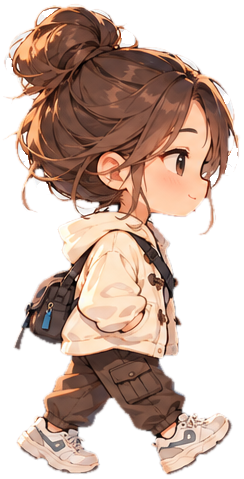
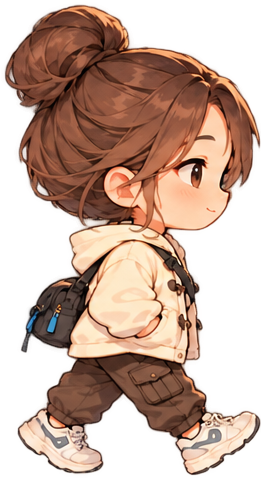
투명 배경 그림으로 교체: 여울 SD 16장, 여울 일러스트 다섯 장, 세라 표정 여섯 장
- 여울 SD 기본 8장과 선 낚시 포즈 6장을 새 투명 시트로 바꿨다. 낚시 포즈는 빈 주먹이라
  주먹 자리(grip)와 대 방향을 재서 poses.json에 넣고, 모든 포즈에 가진 대 밑동과 릴을 쥐여 준다
- 일러스트: yeoul-eat, yeoul-serve, yeoul-hands 교체. 새 yeoul-salty-tear(1장 끝 마지막 대사),
  새 yeoul-rod-broken(프롤로그 창고 장면, 표정 rodBroken)
- 세라 표정 여섯 장 교체
- ART_PROMPTS.md에 투명 배경 프롬프트 SD 7 기록

Claude-Session: https://claude.ai/code/session_01Q4t6Q7pbCP7YWATBfPpGQ7

diff --git a/docs/ART_PROMPTS.md b/docs/ART_PROMPTS.md
@@ -41,6 +41,7 @@
 ### 받은 SD 시트
 - 2026-10-27: **차세라 표정 시트**(대화 4)와 **컷 9 고등어 찌·컷 10 차세라 첫 만남**. 옷은 파랑 대신 빨강·흰 바람막이에 검은 탱크톱, 빨간 고글로 나와 그대로 쓴다(앞으로 차세라 그림은 이 디자인). 시트는 칸 사이가 고르지 않아 칸을 직접 잘라 `sd_sheet.py`(1×1)와 `clean_halo.py --fringe`로 `portraits/sera*.png`에. 컷은 `godot/art/cuts/`.
 - 2026-10-27: **뒤에서 본 릴 열 개 다시**(두 번째 시트: 릴 다리 위, 스풀 너머, 핸들 왼쪽). `godot/art/gear/reel-back-N.png`, 다리 꼭대기 가로 위치는 `data/gearlook.json reelFoot`. 낚시 화면에서 손 위 대 아래에 매단다. 앞 시트(스풀 앞면이 보이던 것)는 버렸다.
+- 2026-10-29: **투명 배경으로 전부 다시** (SD 7). 이미지 도구가 진짜 투명 PNG를 준다(채팅 미리보기엔 투명한 곳 밑 색이 비쳐 배경처럼 보이니 파일로 확인한다). 흰 배경을 지울 필요가 없어 머리카락 사이 흰 조각이 사라졌다. 여울 SD 기본 8장, 낚시 8장(빈 주먹, 대와 릴은 게임이 쥐여 준다), 여울 일러스트 다섯 장(yeoul-eat, yeoul-serve, yeoul-hands, 새 yeoul-salty-tear, 새 yeoul-rod-broken), 세라 표정 여섯 장을 바꿨다. 시트는 칸 경계 둘레 빈 줄에서 자르고, 낚시 포즈의 주먹 자리(grip)와 앉는 높이(seat)는 손으로 재서 `poses.json`에 넣었다. 캠핑 의자에 앉은 일러스트는 쓸 곳을 정하지 않아 보류.
 - 2026-10-27: **여울 낚시 포즈 다시**(SD 2-2, 뒷모습 중심 2×4). `sd_sheet.py`로 자르고 `godot/art/yeoul/fish-*.png`, `poses.json`에 넣었다. 테두리가 또렷해 `clean_halo.py`는 쓰지 않았다(쓰면 가는 낚싯대가 끊긴다). 감기는 손 위 대를 지웠다. 놀람(bite) 옆 주황 표시는 잘릴 때 빠진다.
 - 2026-10-22: **손님 SD 시트 두 장**(6명 × 서기·걷기·기쁨·실망). `scripts/sd_cells.py`로 잘라 `godot/art/customers/<id>-<포즈>.png`. 두 번째 시트는 체크무늬가 박혀 있어도 지워진다. 흰 수염 할아버지는 `--hair=0`.
 - 2026-10-27: **마을 의뢰인 SD 2**(노씨·바다횟집 사장·읍내 일식집·포장마차 아저씨·민박집 할머니)를 `godot/art/villagers/{nossi,sashimi,sushi,stall,minbak}-*.png`로 넣고 `requests.json sd`를 바꿨다.
@@ -165,6 +166,88 @@ Style: the same painted game icon style as the attached icons, soft shading, lig
 Layout: 2 rows x 5 columns, all reels at the same scale, centered in their cells, wide equal spacing so nothing touches.
 
 Background: plain solid light gray #EDEDED. No checkerboard, no text, no numbers, no labels, no borders, no grid lines, no shadow.
+```
+
+## SD 7. 투명 배경 시트 (2026-10-29)
+
+이미지 도구가 투명 PNG를 만들 수 있으면 이 판을 쓴다. 회색 배경 판보다 머리 둘레가 훨씬 깨끗하다.
+받으면 파일의 투명도부터 확인한다(배경 픽셀 알파가 0이어야 한다). 자를 때는 배경 지우기 없이 칸만 나눈다.
+낚시 포즈는 손이 비어 있으니 주먹 구멍 가운데를 `grip`, 대가 뻗을 방향을 `rodDir`로 재고, 앉은 포즈는 발바닥에서 엉덩이 아랫선까지를 `seat`로 적는다.
+
+### SD 7-1. 여울 기본 시트
+
+첨부: 지금 여울 SD 시트, 방파제 배경.
+
+```
+Create one game character sheet as a PNG with a fully transparent background (real alpha transparency). Attached images: the current chibi SD sheet of the heroine (keep exactly her design and chibi style) and watercolor background illustrations from my game (use them only for color palette and lighting).
+
+Character: Han Yeoul, a 29-year-old Korean woman, former sous-chef. Long brown hair pulled up into a neat high bun, brown eyes, calm and slightly tired face. Oversized cream-white hooded jacket with toggle buttons, plain white t-shirt, black crossbody harness bag with small blue accents, dark brown cargo jogger pants with side pockets, chunky white-gray sneakers.
+
+Hair: a tidy bun with a smooth closed silhouette. Only two or three loose strands near the face, drawn as solid brown locks attached to the hair mass. No thin flyaway hairs, no hair loops or rings, no gaps between strands, no white glow or rim light around the hair.
+
+Style: cute chibi SD character, 2.5 heads tall, big head, small rounded body, short limbs, soft anime face with big gentle eyes, soft cel shading with a light watercolor texture, warm sunny Korean seaside colors, light always from the upper left. A clean continuous dark brown outline around the whole silhouette, including the hair, face, white hood and sneakers.
+
+Layout: 2 rows x 4 columns, every figure full body, exactly the same scale, all standing on the same baseline, wide equal spacing so nothing touches or overlaps.
+Row 1: front view standing relaxed, three-quarter front view, side view facing right, back view.
+Row 2: idle pose with hands in jacket pockets, waving hello with a small smile, walking side view facing right with right foot forward, walking side view facing right with left foot forward.
+
+Transparent background everywhere outside the character. No background color, no white edge, no halo, no drop shadow, no ground shadow, no checkerboard pattern, no text, no labels, no numbers, no borders, no grid lines.
+```
+
+### SD 7-2. 여울 낚시 시트 (빈 손)
+
+첨부: SD 7-1 시트, 대 밑동 시트(`godot/art/gear/butt-*.png`, 손잡이 굵기 참고), 방파제 배경.
+
+```
+Create one game character pose sheet for a mobile fishing game as a PNG with a fully transparent background (real alpha transparency). Attached images: the chibi SD sheet of the heroine (keep exactly her design, hairstyle, scale and chibi style), my fishing rod handle sheet (only to show how thick the handle in her hands is) and a watercolor seawall background (use it only for colors and light).
+
+Character: Han Yeoul, a 29-year-old Korean woman. Long brown hair pulled up into a neat high bun, brown eyes, oversized cream-white hooded jacket with toggle buttons, white t-shirt, black crossbody harness bag with small blue accents, dark brown cargo jogger pants with side pockets, chunky white-gray sneakers.
+
+Hair: a tidy bun with a smooth closed silhouette, only two or three solid loose locks near the face. No thin flyaway hairs, no hair loops, no gaps between strands.
+
+Hands: she mimes fishing with empty hands. Draw no fishing rod, no reel, no handle, no line, no float, no fish. Her hands are closed in loose fists around an invisible rod handle as thick as the attached handle, with a small round hole through the fists, the hole lined up with the direction the invisible rod would point. The game draws the rod and reel into her hands later.
+
+Scene idea: she stands in the middle of a seawall facing the open sea, so the player mostly sees her from behind. She is right-handed. The invisible rod points up and forward toward the sea, leaning a little to the right.
+
+Style: cute chibi SD, 2.5 heads tall, big head, small rounded body, soft anime coloring, soft cel shading with a light watercolor texture, light from the upper left. A clean continuous dark brown outline around the whole silhouette, including her face, cheeks, hands and the white hood.
+
+Layout: exactly 2 rows x 4 columns, 8 figures in total, full body with both feet visible, exactly the same scale as the attached sheet, all on the same baseline, wide equal spacing so nothing touches.
+Row 1:
+1. ready: standing back view, both fists together at chest height, right fist above left fist, as if holding the rod pointing up and forward.
+2. waiting: standing back view, relaxed, right fist at waist height holding the invisible rod, left hand in the jacket pocket, head tilted slightly.
+3. casting: back view, both fists raised over her right shoulder, about to throw forward.
+4. sitting: back view, sitting on an invisible seat at the height of a low camping chair, both fists together at chest height. Do not draw any chair, stool or seat.
+Row 2:
+5. bite: sitting the same way on the invisible seat, three-quarter back view turned slightly to the right, startled, fists gripping tight, a small part of her surprised face visible. No chair.
+6. reeling: standing back view, leaning back a little, left fist holding the invisible rod at chest height, right hand turning an invisible reel handle just below it.
+7. fighting: three-quarter back view turned slightly to the right, feet planted wide, leaning back hard, both fists pulling up and to the right.
+8. joy: front view facing the viewer, big happy smile, right fist at chest height holding the invisible rod, left fist raised.
+
+Transparent background everywhere outside the character. No background color, no white edge, no halo, no glow, no drop shadow, no ground shadow, no effect marks or music notes, no checkerboard pattern, no text, no labels, no numbers, no borders, no grid lines.
+```
+
+### SD 7-3. 의자에 앉은 두 포즈 (빈 손)
+
+첨부: SD 7-2 시트, 뒤에서 본 의자(`godot/art/gear/chair-back-3.png`). 다리는 바닥에 닿지 않아도 된다. 게임이 엉덩이 아랫선에 가진 의자 앉는 자리를 맞춘다.
+
+```
+Create one game character pose sheet for a mobile fishing game as a PNG with a fully transparent background (real alpha transparency). Attached images: my current chibi SD fishing pose sheet of the heroine (keep exactly her design, hairstyle, scale, empty-fist hands and chibi style) and a back view of my camping chair (use it only for the seat height and the viewing angle, do not draw it).
+
+Character: Han Yeoul, a 29-year-old Korean woman. Long brown hair pulled up into a neat high bun, brown eyes, oversized cream-white hooded jacket with toggle buttons, white t-shirt, black crossbody harness bag with small blue accents, dark brown cargo jogger pants with side pockets, chunky white-gray sneakers.
+
+Hair: a tidy bun with a smooth closed silhouette, only two or three solid loose locks near the face. No thin flyaway hairs, no hair loops, no gaps between strands.
+
+Sitting: she sits on an invisible camping chair, seen from behind and slightly above like the attached chair. Her bottom rests on a flat horizontal seat, so the underside of her bottom and thighs forms one straight horizontal line at the same height in both poses. Her lower legs hang down relaxed from the front edge of the seat. Her feet do not need to touch the ground and may dangle a little. Do not draw any chair, stool, seat, ground or shadow.
+
+Hands: she mimes fishing with empty hands, exactly like the attached sheet. Draw no fishing rod, no reel, no handle, no line, no float. Both hands are closed in loose fists around an invisible rod handle at chest height, with a small round hole through the fists, lined up with the invisible rod pointing up and forward toward the sea, leaning a little to the right.
+
+Style: cute chibi SD, 2.5 heads tall, big head, small rounded body, soft anime coloring, soft cel shading with a light watercolor texture, light from the upper left. A clean continuous dark brown outline around the whole silhouette, including her face, hands and the white hood.
+
+Layout: exactly 1 row x 2 columns, 2 figures in total, exactly the same scale as the attached fishing sheet, the seat line at the same height in both, wide spacing so nothing touches.
+1. sitting and waiting: back view, calm, shoulders relaxed, head tilted slightly, both fists together at chest height.
+2. bite: three-quarter back view turned slightly to the right, startled, shoulders up, fists gripping tight and pulled a little up, a small part of her surprised face visible.
+
+Transparent background everywhere outside the character. No background color, no white edge, no halo, no glow, no drop shadow, no ground shadow, no effect marks, no checkerboard pattern, no text, no labels, no numbers, no borders, no grid lines.
 ```
 
 ## SD 3. 여울 표정 시트
